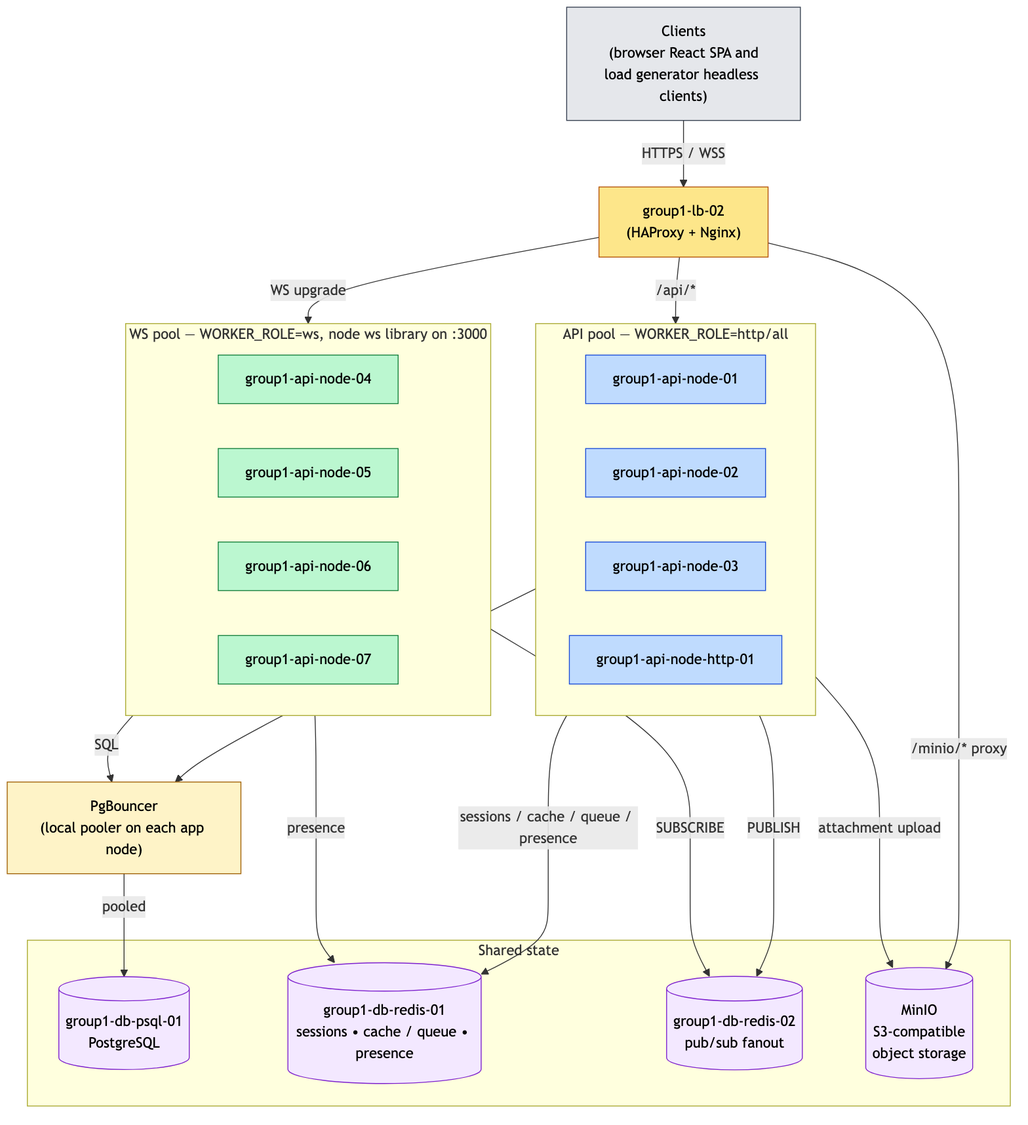
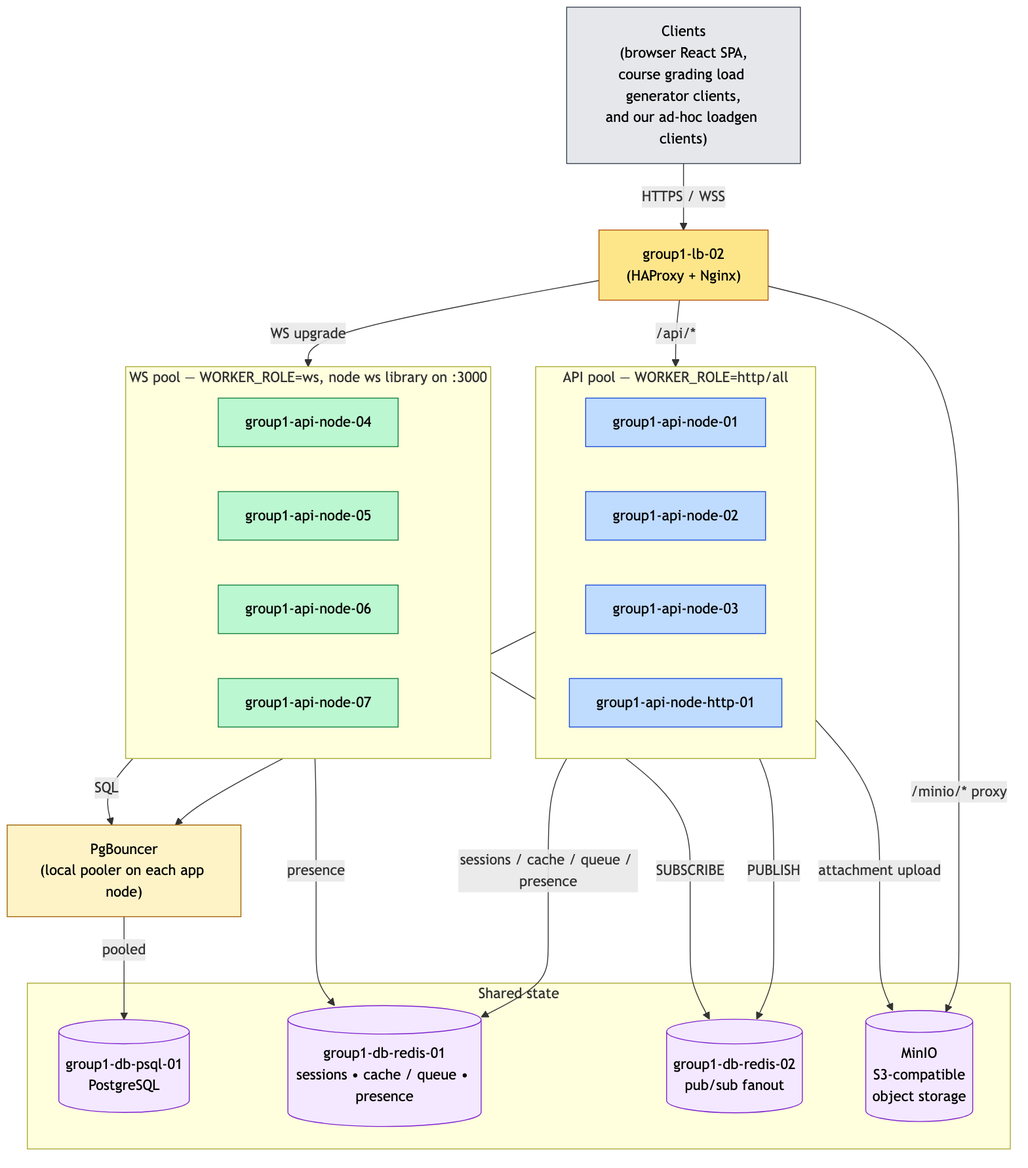
Disambiguate "course grading load generator" vs "our ad-hoc loadgen"
These are two distinct populations of clients and the docs were
treating them as one. Establish the terminology and apply it across
project-docs/ + README + the architecture diagram.

Terminology:
- "Course grading load generator" — the course-run infrastructure
  (out of our control) that ran continuously for the 4-week Test
  Traffic Period, simulating real end-users, ramping until failure
  rates passed a threshold. This is what set Peak Conn / Peak Rate.
- "Our ad-hoc loadgen runs" — discrete passes we drove from a
  developer laptop / the loadgen node during tuning to validate
  specific fixes. Outputs in loadgen-reports/.

SCALING.md:
- Methodology section now has explicit "two sources of load" bullets
  with the canonical names.
- Bottleneck 1: pool exhaustion "under grading-load-generator burst";
  effect bullet calls out both ad-hoc and grading results.
- Bottleneck 2: GIN flushes under "the grading load generator's
  sustained write rate"; effect bullet covers both.
- Bottleneck 8 evidence: "during peak grading-load-generator traffic".

ARCHITECTURE.md:
- Clients row enumerates both populations alongside the React SPA.

DEPLOYMENT.md / DEVELOPER-GUIDE.md:
- Testing sections relabel "load-generator runs" → "our ad-hoc loadgen
  runs", with explicit callout that the grading load generator is
  external.
- Debugging notes (init race, 4/15 incident, URL-drift known-issue)
  attribute the originating client to the grading load generator.

TEAM.md / README.md:
[…]

diff --git a/project-docs/SCALING.md b/project-docs/SCALING.md
@@ -10,8 +10,10 @@ These are the final numbers for `group1`. The remainder of this document walks t
 
 ## How we measured
 
-- **Load generator runs** (headless API-driven clients) ramped concurrent users until delivery / login failure rates passed a threshold, then backed off. Peak Conn and Peak Rate are therefore *demand-side* numbers — the load generator kept pushing until something broke. Reducing failure rates directly raised both ceilings.
-- **Loadgen reports** in [`loadgen-reports/`](../loadgen-reports/) capture the discrete tuning passes (BGSAVE-off baseline, GC tuning, optimistic broadcast, etc.) — JSON results paired with their corresponding `.log` files.
+Two distinct sources of load drove the system, and this document refers to them with deliberately different names so they're not conflated:
+
+- **Course grading load generator** — the course-run infrastructure (out of our control) that connected headless API-driven clients to our deployment and ramped concurrent users until delivery / login failure rates passed a threshold, then backed off. After 4/13 "Go Live" it ran continuously for the 4-week **Test Traffic Period**, simulating real end-users. Peak Conn and Peak Rate in the headline are therefore *demand-side* numbers — the grading load generator kept pushing until something broke; reducing failure rates directly raised both ceilings.
+- **Our ad-hoc loadgen runs** — discrete test passes the team kicked off from a developer laptop / the loadgen node against the prod cluster to validate specific fixes (BGSAVE-off baseline, GC tuning, optimistic broadcast variants, etc.). Outputs archived in [`loadgen-reports/`](../loadgen-reports/) — JSON run summaries paired with `.log` files containing per-request traces. These are *our* runs; the grading load generator's traffic is not captured here.
 - **Telemetry stack**: Grafana Alloy on every node and on a dedicated `group1-telemetry-01` collector, shipping logs + metrics to **Grafana Cloud** (Loki for logs, Mimir/Prometheus for metrics, hosted Grafana dashboards). HAProxy stats endpoint (`/stats`) for live LB state, Sentry for unhandled exceptions, **Axiom for HAProxy live log streaming** (per-request access logs piped via Vector for ad-hoc tail/aggregation during incidents). Inline `console.log` traces during deep-dive incident investigations.
 - **TLS-probe CSVs** in `loadgen-reports/2026-05-06-tls-probe*.csv` (script in [`scripts/tls-probe/`](../scripts/tls-probe/)) — used to characterize LB-side cold-handshake latency separately from app-side cost.
 
@@ -22,7 +24,7 @@ The architecture the headline was measured against is described in [ARCHITECTURE
 ## Bottleneck 1 — PostgreSQL connection pool exhaustion
 
 ### Problem
-The default Sequelize pool size was `max: 5` per worker. The hottest write endpoint (`POST /api/conversations/:id/read`) ran **7–8 sequential queries** per request (a redundant `Conversation.findByPk` *and* `Channel.findByPk`, membership check, message lookup, an `isForwardRead` round-trip, the `member.save()` update, and on conversations a participant list fetch for the broadcast). Under load-generator burst all pool connections sat busy; new requests queued past Sequelize's 60s `acquire` timeout, which was longer than HAProxy's `timeout server 50s` — so HAProxy 504'd first, silently.
+The default Sequelize pool size was `max: 5` per worker. The hottest write endpoint (`POST /api/conversations/:id/read`) ran **7–8 sequential queries** per request (a redundant `Conversation.findByPk` *and* `Channel.findByPk`, membership check, message lookup, an `isForwardRead` round-trip, the `member.save()` update, and on conversations a participant list fetch for the broadcast). Under grading-load-generator burst all pool connections sat busy; new requests queued past Sequelize's 60s `acquire` timeout, which was longer than HAProxy's `timeout server 50s` — so HAProxy 504'd first, silently.
 
 ### Evidence
 - **9,685 HAProxy 504 Gateway Timeouts in one day** (2026-04-13). Every log line carried timer `Tr=-1, Ta≈50000ms` and termination flag `sH--` — the signature of "TCP accepted, server never responded inside `timeout server`."
@@ -39,7 +41,7 @@ Multiple coordinated changes, by date:
 5. **Dedicated Sequelize pool for search** (`80e4d01` by Pranav Jothivel) — split `server/src/db.js` to export both `sequelize` (main app pool, `max:14`) and `searchSequelize` (dedicated pool, `max:6`) so a heavy FTS query holding a pool slot can never starve the message-send hot path. `server/src/routes/search.js` was migrated to import the search pool. The split also opened the door to per-pool `statement_timeout` tuning.
 
 ### Effect
-504s stopped reproducing during loadgen runs. `pool.acquire` time fell from "near-timeout" to sub-millisecond on the steady-state path. The DB pool stopped being a binding constraint for the rest of the project; later bottlenecks were *downstream* of fixed pool capacity, not the pool itself.
+504s stopped reproducing in our ad-hoc loadgen runs and disappeared from the grading load generator's failure counts. `pool.acquire` time fell from "near-timeout" to sub-millisecond on the steady-state path. The DB pool stopped being a binding constraint for the rest of the project; later bottlenecks were *downstream* of fixed pool capacity, not the pool itself.
 
 ### Tradeoff / limitation
 PgBouncer in transaction mode is incompatible with session-scoped Postgres features (`SET LOCAL`, prepared statements at the connection level, advisory locks). We don't use any of those — but it's a constraint on what future features can rely on.
@@ -49,7 +51,7 @@ PgBouncer in transaction mode is incompatible with session-scoped Postgres featu
 ## Bottleneck 2 — GIN pending-list flushes serializing inserts
 
 ### Problem
-The full-text search index is a `GIN` index on `messages.content_tsv`. GIN's default `fastupdate=on` buffers index entries into a per-index *pending list* on every INSERT; the pending list is flushed lazily, but the flush is a single serialized operation on the index. Under load-generator write burst, the pending list grew faster than the lazy flush could keep up, and at some point an INSERT triggered a flush that took multiple seconds and serialized every concurrent INSERT behind it.
+The full-text search index is a `GIN` index on `messages.content_tsv`. GIN's default `fastupdate=on` buffers index entries into a per-index *pending list* on every INSERT; the pending list is flushed lazily, but the flush is a single serialized operation on the index. Under the grading load generator's sustained write rate, the pending list grew faster than the lazy flush could keep up, and at some point an INSERT triggered a flush that took multiple seconds and serialized every concurrent INSERT behind it.
 
 ### Evidence
 - A manual `gin_clean_pending_list('messages_content_fts_simple_idx')` measured **3.1 s for 190 pages** on 2026-05-04 — and that was off-peak. During load the pending list was larger.
@@ -64,7 +66,7 @@ ALTER INDEX messages_content_fts_simple_idx SET (fastupdate = off);
 Applied directly via `psql` on `group1-db-psql-01` on 2026-05-04 ~14:42 EDT, out-of-band. A final `gin_clean_pending_list()` post-ALTER flushed the leftover 257 pages in 4 s; with `fastupdate=off`, no future flushes will ever fire on this index.
 
 ### Effect
-Delivery p95 expected to drop into the **300–700 ms** band based on the pre-flush vs. flush latency ratio. Subsequent loadgen runs confirmed the long INSERT tail had vanished.
+Delivery p95 expected to drop into the **300–700 ms** band based on the pre-flush vs. flush latency ratio. Subsequent ad-hoc loadgen runs confirmed the long INSERT tail had vanished, and the grading load generator's per-message latency distribution flattened to match.
 
 ### Tradeoff / limitation
 Per-row INSERT latency goes up slightly (each row now updates the index posting tree directly instead of appending to the pending list). For our workload this is a clear win — bounded p99 beats unbounded amortized — but on a write-much-heavier workload the trade would shift.
@@ -210,7 +212,7 @@ Additionally:
 - `timeout http-keep-alive` falling back to `timeout client 50s` closed idle pooled connections too aggressively for chat traffic, paying handshake cost on every gap.
 
 ### Evidence
-- HAProxy stats showed concurrent connections approaching the 8192 cap during peak loadgen.
+- HAProxy stats showed concurrent connections approaching the 8192 cap during peak grading-load-generator traffic.
 - TLS-probe CSVs (`loadgen-reports/2026-05-06-tls-probe*.csv`) captured cold-handshake latency in the 600–1100 ms range pre-tuning.
 - e2e delivery p99 was 638 → **1144 ms** under cold-handshake amplification.
 

diff --git a/project-docs/TEAM.md b/project-docs/TEAM.md
@@ -6,7 +6,7 @@
 - **GitHub** for code review and async work. PRs were the unit of work; issues were used loosely (more often a Discord message escalating into a PR). The git history is the canonical record of who shipped what.
 - **Grafana + Sentry** as the operational eye. **Sentry** captured every unhandled exception thrown by an app worker — the stack trace, request context, and triggering user landed in a team Discord channel within seconds, so silent bugs that didn't bubble up as a non-2xx response still surfaced. It was kept on the hot path until its overhead outweighed the value (mid-April), then disabled in the codepath but kept wired for re-enable. **Grafana Cloud** (Loki + Prometheus, fed by Alloy on the telemetry node) and **Axiom** (HAProxy access-log tail via Vector) persisted to the end.
 - **Work was distributed by claim**, not assigned. When a deadline or a new bottleneck surfaced, whichever member had the most context volunteered. Hard rolling-deploy / infra work tended to converge on whoever had paged-in production state recently.
-- **Deadlines** were structured around 4/13 Go Live and the 4-week Test Traffic Period that followed (the load generator simulating real end-users continuously). Most feature work was completed well before Go Live to leave the Test Traffic Period for chasing bugs that the pre-Live API tests didn't surface under real-world load. Capacity analyses written when bottlenecks shifted bracketed each push.
+- **Deadlines** were structured around 4/13 Go Live and the 4-week Test Traffic Period that followed (during which the **course grading load generator** ran continuously, simulating real end-users). Most feature work was completed well before Go Live to leave the Test Traffic Period for chasing bugs that the pre-Live API tests didn't surface under real-world load. Capacity analyses written when bottlenecks shifted bracketed each push.
 
 ---
 
@@ -19,11 +19,11 @@
 - Sustained performance-tuning work across HAProxy, PostgreSQL, Redis, and PM2
 
 **Major contributions**
-- **Foundational features** — Communities + channels (API + UI), read-state for channels and DMs, DM read receipts over WebSocket, OAuth provider linking/unlinking in account settings, FTS jump-to-message in search, MinIO volume + resize pipeline, load-generator backdoor login.
+- **Foundational features** — Communities + channels (API + UI), read-state for channels and DMs, DM read receipts over WebSocket, OAuth provider linking/unlinking in account settings, FTS jump-to-message in search, MinIO volume + resize pipeline, backdoor login endpoint for the course grading load generator's headless clients.
 - **Foundational infrastructure** — Built out the cluster from the first app node to the final 8-node topology. Authored the matrix-on-`infra/nodes.yml` deploy model and the majority of the GitHub Actions pipelines (`deploy.yml`, `rolling-hot-deploy.yml`, `ci.yml`, MinIO volume CI/resize). Added the second LB (`group1-lb-02`) with the heavy BBR + sysctl tune. Grew the node inventory from 1 → 8 app nodes including the `WORKER_ROLE=http`-only node (`api-node-http-01`).
 - **Observability** — Initial Grafana Alloy + OTel + HAProxy metrics + Sentry integration, with Grafana Cloud (Loki for logs, Prometheus/Mimir for metrics) on the receive side and Axiom for HAProxy live access-log streaming via Vector. Targeted incident-debug instrumentation passes (POST `/api/messages` timing, `deliverLocal`, WS fanout latency, event-loop lag).
 - **Incident response** — Diagnosed the 9.7K-504 incident on 2026-04-13 (PG connection pool exhaustion), the community-load timeout (FTS seq-scan + members N+1), the HAProxy drain/reload race in rolling deploy.
-- **4/15 sendMessage `403` surge** — When a surge of "not a channel member" 403s appeared around 5 AM on 2026-04-15, identified the root cause: `join-community` API calls were returning 500s under load, and the load-generator clients were silently treating those failed joins as successful and then attempting `sendMessage` as a non-member. Led the diagnosis on the course forum thread with the instructor, then shipped a temporary fall-back in the `sendMessage` handler that joined the user to the community if their membership lookup missed, before sending — the 403s stopped within 30 minutes. Once the instructor patched the load generator to surface join errors explicitly, reverted our fall-back; the 403s did not return and the database stopped accumulating orphan-member rows.
+- **4/15 sendMessage `403` surge** — When a surge of "not a channel member" 403s appeared around 5 AM on 2026-04-15, identified the root cause: `join-community` API calls were returning 500s under load, and the **course grading load generator's** clients were silently treating those failed joins as successful and then attempting `sendMessage` as a non-member. Led the diagnosis on the course forum thread with the instructor, then shipped a temporary fall-back in the `sendMessage` handler that joined the user to the community if their membership lookup missed, before sending — the 403s stopped within 30 minutes. Once the instructor patched the grading load generator to surface join errors explicitly, reverted our fall-back; the 403s did not return and the database stopped accumulating orphan-member rows.
 - **Performance tuning — WS payload & hot path** — Brought the 5/5–5/6 prod hot-path WS optimizations onto `main` as `4a5ce79`: pre-stringify broadcast payload at the publisher (so it's serialized once, not per-deliverLocal), skip `deliverLocal` on api-only workers (don't iterate an empty `users` Map), chunk per-user fanout on the subscriber path, coalesce `broadcastPresenceChange` per-user with a 250 ms debounce. Also drove the three-pass per-worker pub/sub restructure (`d2059f4` / `a82eba6` / `c16280b`) that decoupled fanout cost from subscriber count.
 - **Performance tuning — DB** — Split `server/src/db.js` so search runs on a dedicated Sequelize pool (`80e4d01`), preventing heavy FTS queries from starving the message-send hot path. Pool sizing, `statement_timeout`, GIN `fastupdate=off` for bounded INSERT latency. PgBouncer install + `default_pool_size` tuning.
 - **Performance tuning — LB / runtime** — HAProxy: `nbthread 4→16`, `maxconn 8192→32768`, HTTP/2 ALPN, `tune.ssl.lifetime`, `timeout http-keep-alive`. PM2: `max_memory_restart`, workers-to-`nproc`.
@@ -85,4 +85,4 @@
 
 - **Communication**: Discord (primary), GitHub PRs (code review), Grafana Cloud / Sentry / Axiom alerts (incident detection).
 - **Progress tracking**: continuous monitoring of metrics and latencies on the course grading portal alongside our own instrumentation data (Grafana Cloud dashboards fed by Alloy on the telemetry node; HAProxy `/stats`; Axiom for access-log tail). Per-incident postmortems and capacity analyses written when bottlenecks shifted.
-- **Deadlines**: the hard deadline was **4/13 "Go Live"**, after which the load generator ran continuously as simulated real end-users for the 4-week **Test Traffic Period**. We finished the majority of feature work well before Go Live so the team could spend the rest of the window catching bugs that the pre-Live API tests didn't reveal under real-world traffic patterns. The "what's the binding constraint right now" framing drove each new round of work during the Test Traffic Period rather than discrete milestone deadlines.
+- **Deadlines**: the hard deadline was **4/13 "Go Live"**, after which the **course grading load generator** ran continuously as simulated real end-users for the 4-week **Test Traffic Period**. We finished the majority of feature work well before Go Live so the team could spend the rest of the window catching bugs that the pre-Live API tests didn't reveal under real-world traffic patterns. The "what's the binding constraint right now" framing drove each new round of work during the Test Traffic Period rather than discrete milestone deadlines.

diff --git a/project-docs/DEVELOPER-GUIDE.md b/project-docs/DEVELOPER-GUIDE.md
@@ -51,7 +51,8 @@ cse356-project/
 │   └── diagrams/
 ├── claude-docs/               ← raw session notes / decision logs (source for the
 │                                 public docs in project-docs/)
-├── loadgen-reports/           ← archived loadgen run outputs
+├── loadgen-reports/           ← archived outputs from our ad-hoc loadgen runs
+│                                (not the course grading load generator — that's external)
 ├── scripts/                   ← repo-level scripts (e.g. tls-probe)
 ├── smoke-tests/               ← Jest-based post-deploy sanity checks
 └── .github/workflows/         ← CI/CD pipelines (deploy.yml, rolling-hot-deploy.yml,
@@ -116,7 +117,7 @@ The verification surface, lightest to heaviest:
   ```
 
 - **Manual smoke** — open the SPA at `https://group1.cse356.compas.cs.stonybrook.edu`, log in, send a message in a community and a DM. Check the per-component sections of [SCALING.md](SCALING.md) for the regression risks that have bitten us before.
-- **Load generator runs** — headless API-driven clients drive the system the same way the course's grading load generator does. Reports archived under `loadgen-reports/`. Filename convention: `2026-MM-DD-<scope>-<state>.{json,log}`. The JSON is the run summary; the `.log` has per-request traces.
+- **Our ad-hoc loadgen runs** — headless API-driven clients we drove against the cluster during tuning to validate specific fixes (different mechanism from the **course grading load generator**, which is course-run, ran continuously through the Test Traffic Period, and which we did not control). Both kinds of clients hit the same REST + WS surface. Reports from our runs archived under `loadgen-reports/`; filename convention `2026-MM-DD-<scope>-<state>.{json,log}` — the JSON is the run summary, the `.log` has per-request traces.
 - **TLS-probe** — `scripts/tls-probe/tls-probe.sh` measures cold-handshake latency at the LB; useful to isolate LB-side jitter from app-side cost.
 - **PM2 health** — `sudo -u deploy pm2 jlist | jq` after a deploy; rising `restarts` is a smell.
 - **HAProxy stats** — `:8404/stats` on either LB. Backend column color = health.
@@ -147,14 +148,14 @@ Pub/sub fanout overload on Redis-02. The fix is structural (per-worker channels 
 `deploy-lb-configs` reloads HAProxy after a deploy, which **wipes runtime `state ready` overrides**. If you marked a backend `disabled` in the config and re-enabled it via socket, the reload reverts. The fix: don't ship new backends as `disabled` in the config; rely on the default health-check window to hold them DOWN until they pass. See `feedback_haproxy_runtime_state_lost_on_reload` in the memory store, and the parked-pool comments in `infra/haproxy/haproxy.cfg`.
 
 ### "Logged in but no presence updates"
-The init race: `enableRealtime()` may resolve when the WS opens at the TCP level, **before** the server's async init finishes and sends the `"ready"` frame. Clients must await the literal string `"ready"` from the server before sending. The headless API-driven load generator clients have hit this bug too — the client-side fix is a one-time pre-filter on the raw WebSocket message event that holds the connect Promise unresolved until the exact frame `"ready"` arrives.
+The init race: `enableRealtime()` may resolve when the WS opens at the TCP level, **before** the server's async init finishes and sends the `"ready"` frame. Clients must await the literal string `"ready"` from the server before sending. The course grading load generator's clients have hit this bug too — the client-side fix is a one-time pre-filter on the raw WebSocket message event that holds the connect Promise unresolved until the exact frame `"ready"` arrives.
 
 ### `sendMessage` returning 403 "not a channel member" right after a successful join
-Historical incident, 2026-04-15. A surge of 403s on `POST /api/messages` was traced to the load generator silently treating failed `POST /api/communities/:id/join` responses (500 under load) as successful, then attempting `sendMessage` as a non-member. The fix landed on the course side (the load generator was updated to surface join errors explicitly). A temporary fall-back in `sendMessage` that auto-joined the user on a missing-membership lookup was used during the incident window and then reverted once the upstream patch was deployed. If a similar pattern reappears, first confirm whether the client is correctly distinguishing success from failure on the join call before reaching for a server-side workaround.
+Historical incident, 2026-04-15. A surge of 403s on `POST /api/messages` was traced to the **course grading load generator** silently treating failed `POST /api/communities/:id/join` responses (500 under load) as successful, then attempting `sendMessage` as a non-member. The fix landed on the course side (the grading load generator was updated to surface join errors explicitly). A temporary fall-back in `sendMessage` that auto-joined the user on a missing-membership lookup was used during the incident window and then reverted once the upstream patch was deployed. If a similar pattern reappears, first confirm whether the client is correctly distinguishing success from failure on the join call before reaching for a server-side workaround.
 
 ## Known issues / future improvements
 
-- **Load-generator client / server URL drift**. The generated client expects `GET /api/unread` (we exposed `/api/conversations/unread`). The server-side fix is to add a `/api/unread` alias that proxies the conversations/unread logic. Also: `POST /api/channels/:id/read` is called by the client with conversation IDs, but the channels handler uses `requireChannelMember`; fall back to conversation-read logic on miss.
+- **Course grading load-generator client / server URL drift**. The generated client (course-side) expects `GET /api/unread`; we exposed `/api/conversations/unread`. The server-side fix is to add a `/api/unread` alias that proxies the conversations/unread logic. Also: `POST /api/channels/:id/read` is called by the client with conversation IDs, but the channels handler uses `requireChannelMember`; fall back to conversation-read logic on miss.
 - **Community find-or-create**. Duplicate-name `POST /communities` currently returns 409 + the existing community ID; the outage monitor doesn't handle 409 and keeps reporting failure. Proposed fix: auto-join on duplicate name.
 - **Dual-table FTS** — see [SCALING.md, Bottleneck 2 tradeoff](SCALING.md#bottleneck-2--gin-pending-list-flushes-serializing-inserts). Moving FTS off the write path entirely is the obvious next step beyond `fastupdate=off`.
 - **Read replica** — for `GET /api/messages` / `/api/search` / `/api/communities`. Should roughly double peak rate.

diff --git a/README.md b/README.md
@@ -50,7 +50,7 @@ cd smoke-tests && npm install && npm test       # default target = prod LB
 TARGET=http://localhost:3000 npm test           # local dev backend
 ```
 
-Deeper verification: load-generator runs (archived in [`loadgen-reports/`](loadgen-reports/)), manual smoke through the SPA, TLS-probe script in [`scripts/tls-probe/`](scripts/tls-probe/), HAProxy `/stats`, and Grafana Cloud dashboards (Loki/Prometheus, fed via Grafana Alloy on the telemetry node) + Axiom for HAProxy access-log tail.
+Deeper verification: our ad-hoc loadgen runs (archived in [`loadgen-reports/`](loadgen-reports/) — distinct from the course grading load generator, which runs externally), manual smoke through the SPA, TLS-probe script in [`scripts/tls-probe/`](scripts/tls-probe/), HAProxy `/stats`, and Grafana Cloud dashboards (Loki/Prometheus, fed via Grafana Alloy on the telemetry node) + Axiom for HAProxy access-log tail.
 
 ## 3. Scaling and Load Handling
 
@@ -107,7 +107,8 @@ infra/
   haproxy/, nginx/, pgbouncer/, lb-sysctl-heavy.conf
 project-docs/           ← public-facing docs (this folder)
 claude-docs/            ← raw session notes (source for project-docs/)
-loadgen-reports/        ← archived loadgen run outputs
+loadgen-reports/        ← outputs from our ad-hoc loadgen runs
+                          (not the course grading load generator)
 .github/workflows/      ← deploy.yml + rolling-hot-deploy.yml
 ```
 
@@ -122,7 +123,7 @@ To add a feature, run tests, or debug something that's been seen before — see 
 | **Jacky Chen** | Authentication (local + OAuth), search, attachment system, message-send hot path, HAProxy CPU tuning |
 | **Zach Decena** | Direct conversations (DMs + group DMs), messaging/presence optimization, issue tracking, vertical + horizontal node scaling |
 
-**Communication & process** — primary channel is the team Discord, with **Sentry** (unhandled exceptions thrown by app workers, with stack trace and request context), **Grafana Cloud** (Loki logs + Prometheus metrics), and **Axiom** (HAProxy access-log tail) alerts piped into the same server. GitHub PRs are the unit of code review. Work was claim-based (whoever had the most context volunteered) rather than top-down assigned. The hard deadline was **4/13 "Go Live"**, after which the load generator simulated real end-users continuously for the 4-week Test Traffic Period. We finished the majority of feature work well before Go Live so the team could spend the rest of the window catching bugs that the pre-Live API tests didn't reveal under real-world traffic patterns; "what's the binding constraint right now" framed each new round of work.
+**Communication & process** — primary channel is the team Discord, with **Sentry** (unhandled exceptions thrown by app workers, with stack trace and request context), **Grafana Cloud** (Loki logs + Prometheus metrics), and **Axiom** (HAProxy access-log tail) alerts piped into the same server. GitHub PRs are the unit of code review. Work was claim-based (whoever had the most context volunteered) rather than top-down assigned. The hard deadline was **4/13 "Go Live"**, after which the **course grading load generator** simulated real end-users continuously for the 4-week Test Traffic Period. We finished the majority of feature work well before Go Live so the team could spend the rest of the window catching bugs that the pre-Live API tests didn't reveal under real-world traffic patterns; "what's the binding constraint right now" framed each new round of work.
 
 **Full per-member contribution detail with commit citations: [project-docs/TEAM.md](project-docs/TEAM.md).**
 

diff --git a/project-docs/ARCHITECTURE.md b/project-docs/ARCHITECTURE.md
@@ -12,7 +12,7 @@ Source: [`diagrams/architecture.mmd`](diagrams/architecture.mmd) (mermaid).
 
 | Component | Role |
 |---|---|
-| **Clients** | The React SPA served from the LB and the headless API-driven load generator clients used for capacity testing. Both speak HTTPS for REST and WSS for the realtime channel. |
+| **Clients** | The React SPA served from the LB, plus two distinct populations of headless API-driven clients: the **course grading load generator's** simulated end-users (running continuously throughout the Test Traffic Period) and **our own ad-hoc loadgen** runs that we drove against the cluster from a developer laptop / the loadgen node during tuning passes. All three populations speak HTTPS for REST and WSS for the realtime channel. |
 | **HAProxy + Nginx (`group1-lb-02`)** | TLS termination, HTTP/2 ALPN, routing (`/api/*` → API pool, WS upgrade → WS pool, `/minio/*` → MinIO, everything else → Nginx-served SPA). Heavy TCP tune (BBR, `infra/lb-sysctl-heavy.conf`). A second LB (`group1-web-lb01`) exists historically but is being phased out — current diagrams show only `lb-02`. |
 | **API pool** | Stateless Node workers with `WORKER_ROLE=http` or `all`: serve REST endpoints, publish broadcasts onto Redis-02, write/read Postgres and Redis-01. Members: `group1-api-node-01/02/03/http-01`. |
 | **WS pool** | Node workers with `WORKER_ROLE=ws`: hold WebSocket connections, subscribe to per-worker pub/sub channels on Redis-02, deliver broadcasts locally. Members: `group1-api-node-04/05/06/07`. Uses the `ws` library on port `:3000` alongside the local Express HTTP server. |

diff --git a/project-docs/DEPLOYMENT.md b/project-docs/DEPLOYMENT.md
@@ -184,7 +184,7 @@ Verification layers, lightest to heaviest:
   ```
 
 - **Manual smoke tests** through the React SPA after each deploy — log in, send a message, open a DM.
-- **Load-generator runs** against the cluster — headless API-driven clients in [`loadgen-reports/`](../loadgen-reports/) (the JSON files are run summaries; the corresponding `.log` files have per-request traces).
+- **Our ad-hoc loadgen runs** against the cluster — headless API-driven clients we drove from a developer laptop / the loadgen node during tuning passes; outputs in [`loadgen-reports/`](../loadgen-reports/) (the JSON files are run summaries; the corresponding `.log` files have per-request traces). This is distinct from the **course grading load generator** that ran continuously against the deployment during the 4-week Test Traffic Period and which we did not control.
 - **TLS-probe** — [`scripts/tls-probe/tls-probe.sh`](../scripts/tls-probe/tls-probe.sh) characterizes LB-side cold-handshake latency over a configurable window. Output CSVs in `loadgen-reports/2026-05-06-tls-probe*.csv`.
 - **Production telemetry** — Grafana Cloud dashboards (Loki for logs, Prometheus/Mimir for metrics) fed from the telemetry node via Grafana Alloy; HAProxy `/stats`; Axiom for HAProxy access-log tail; Sentry for unhandled exceptions (Sentry is currently disabled in the codepath, kept for re-enable).
 
